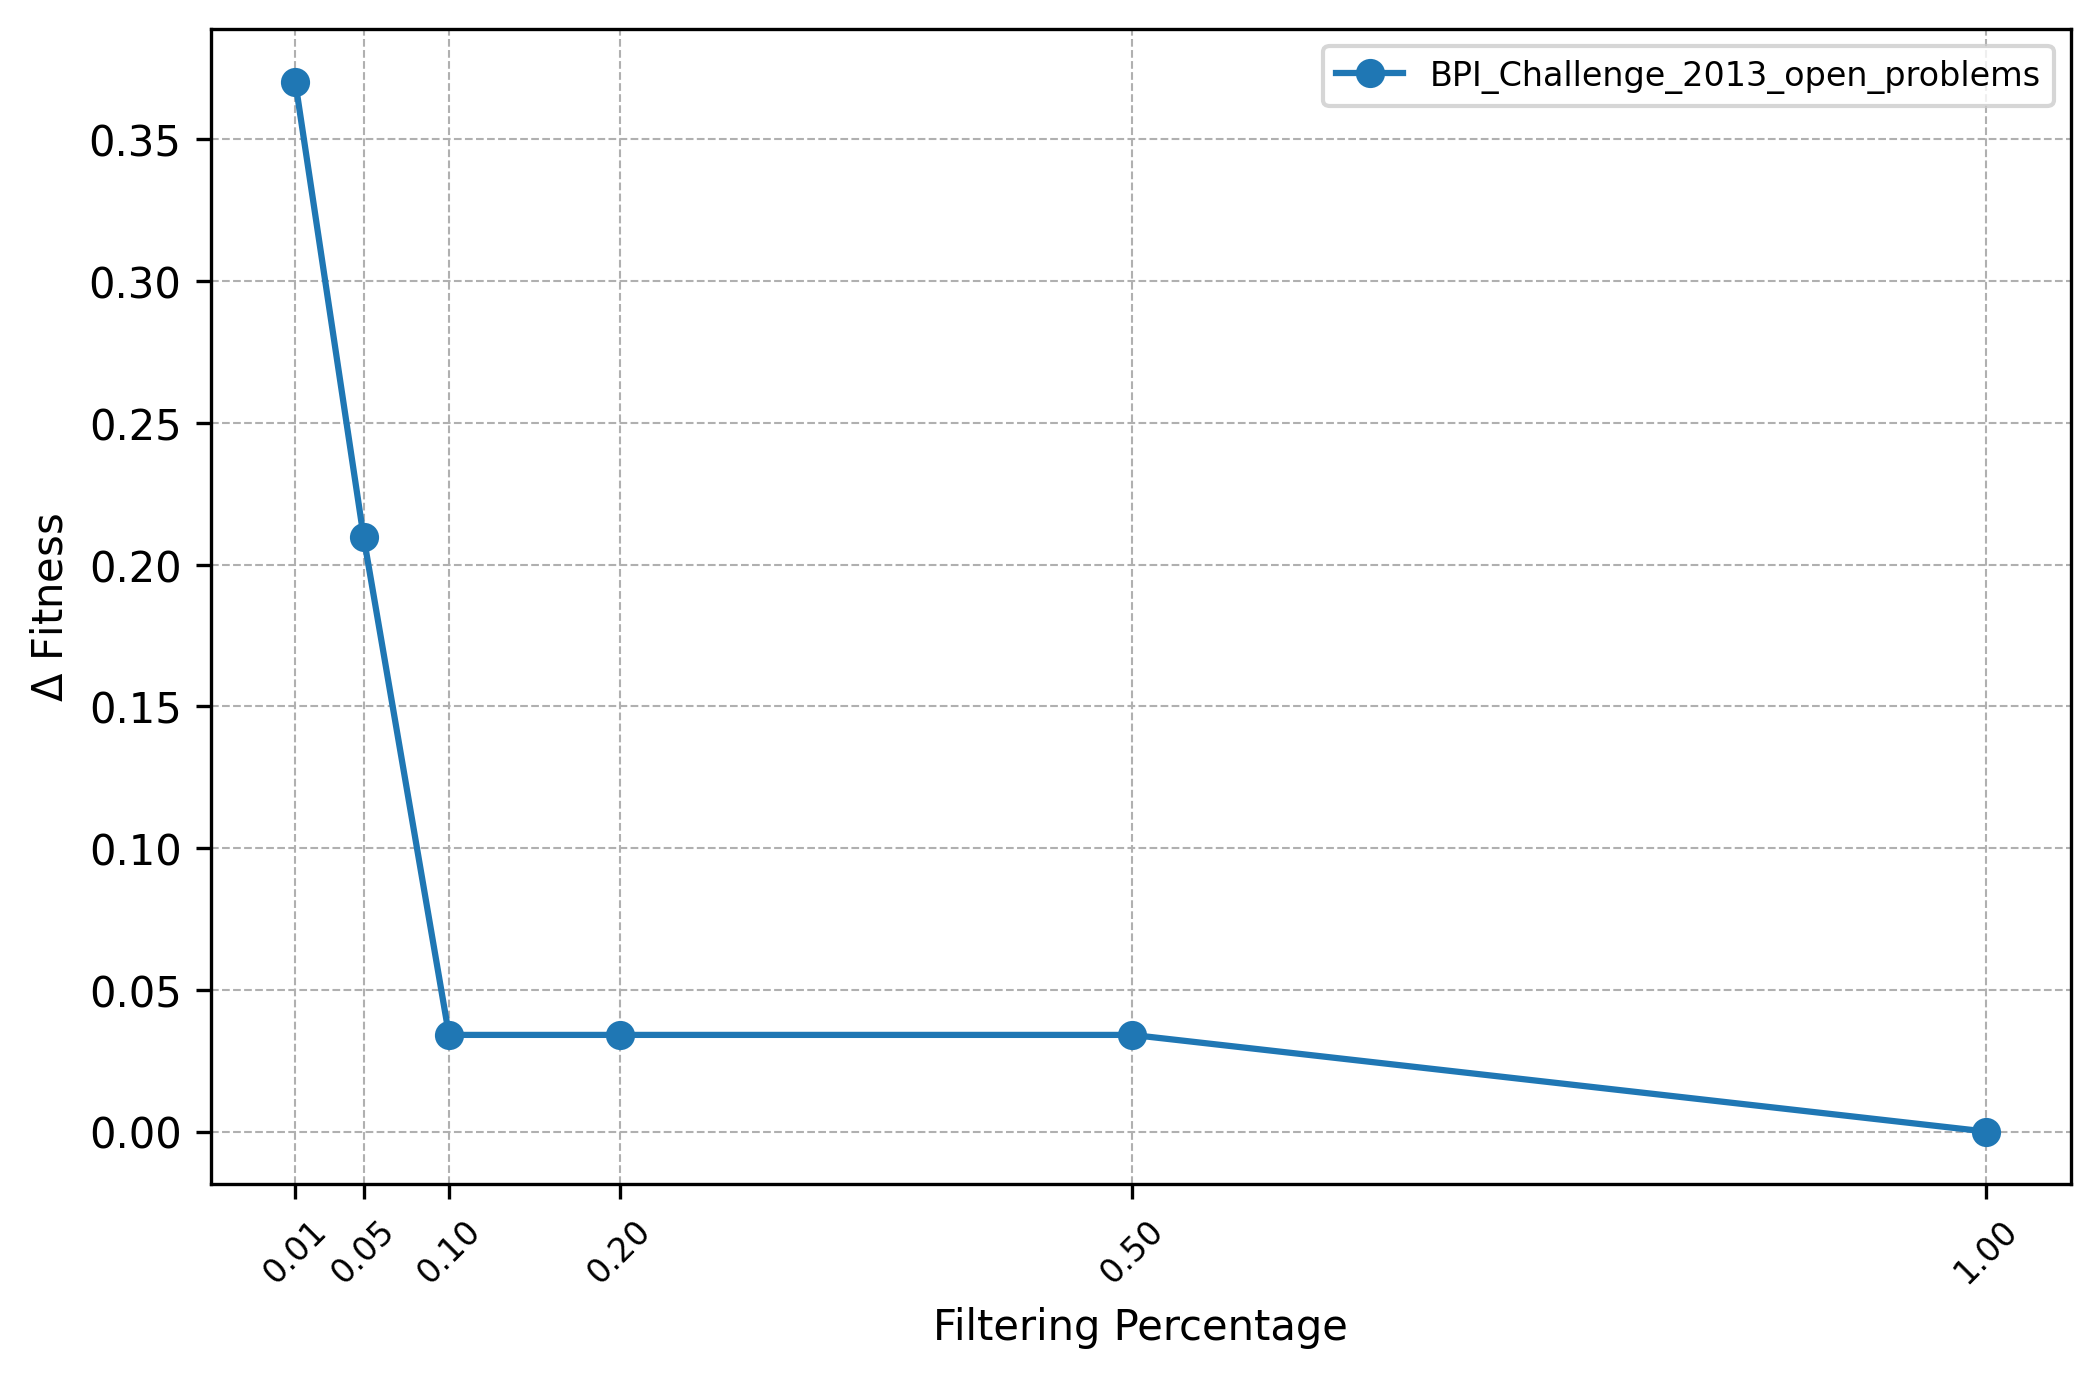
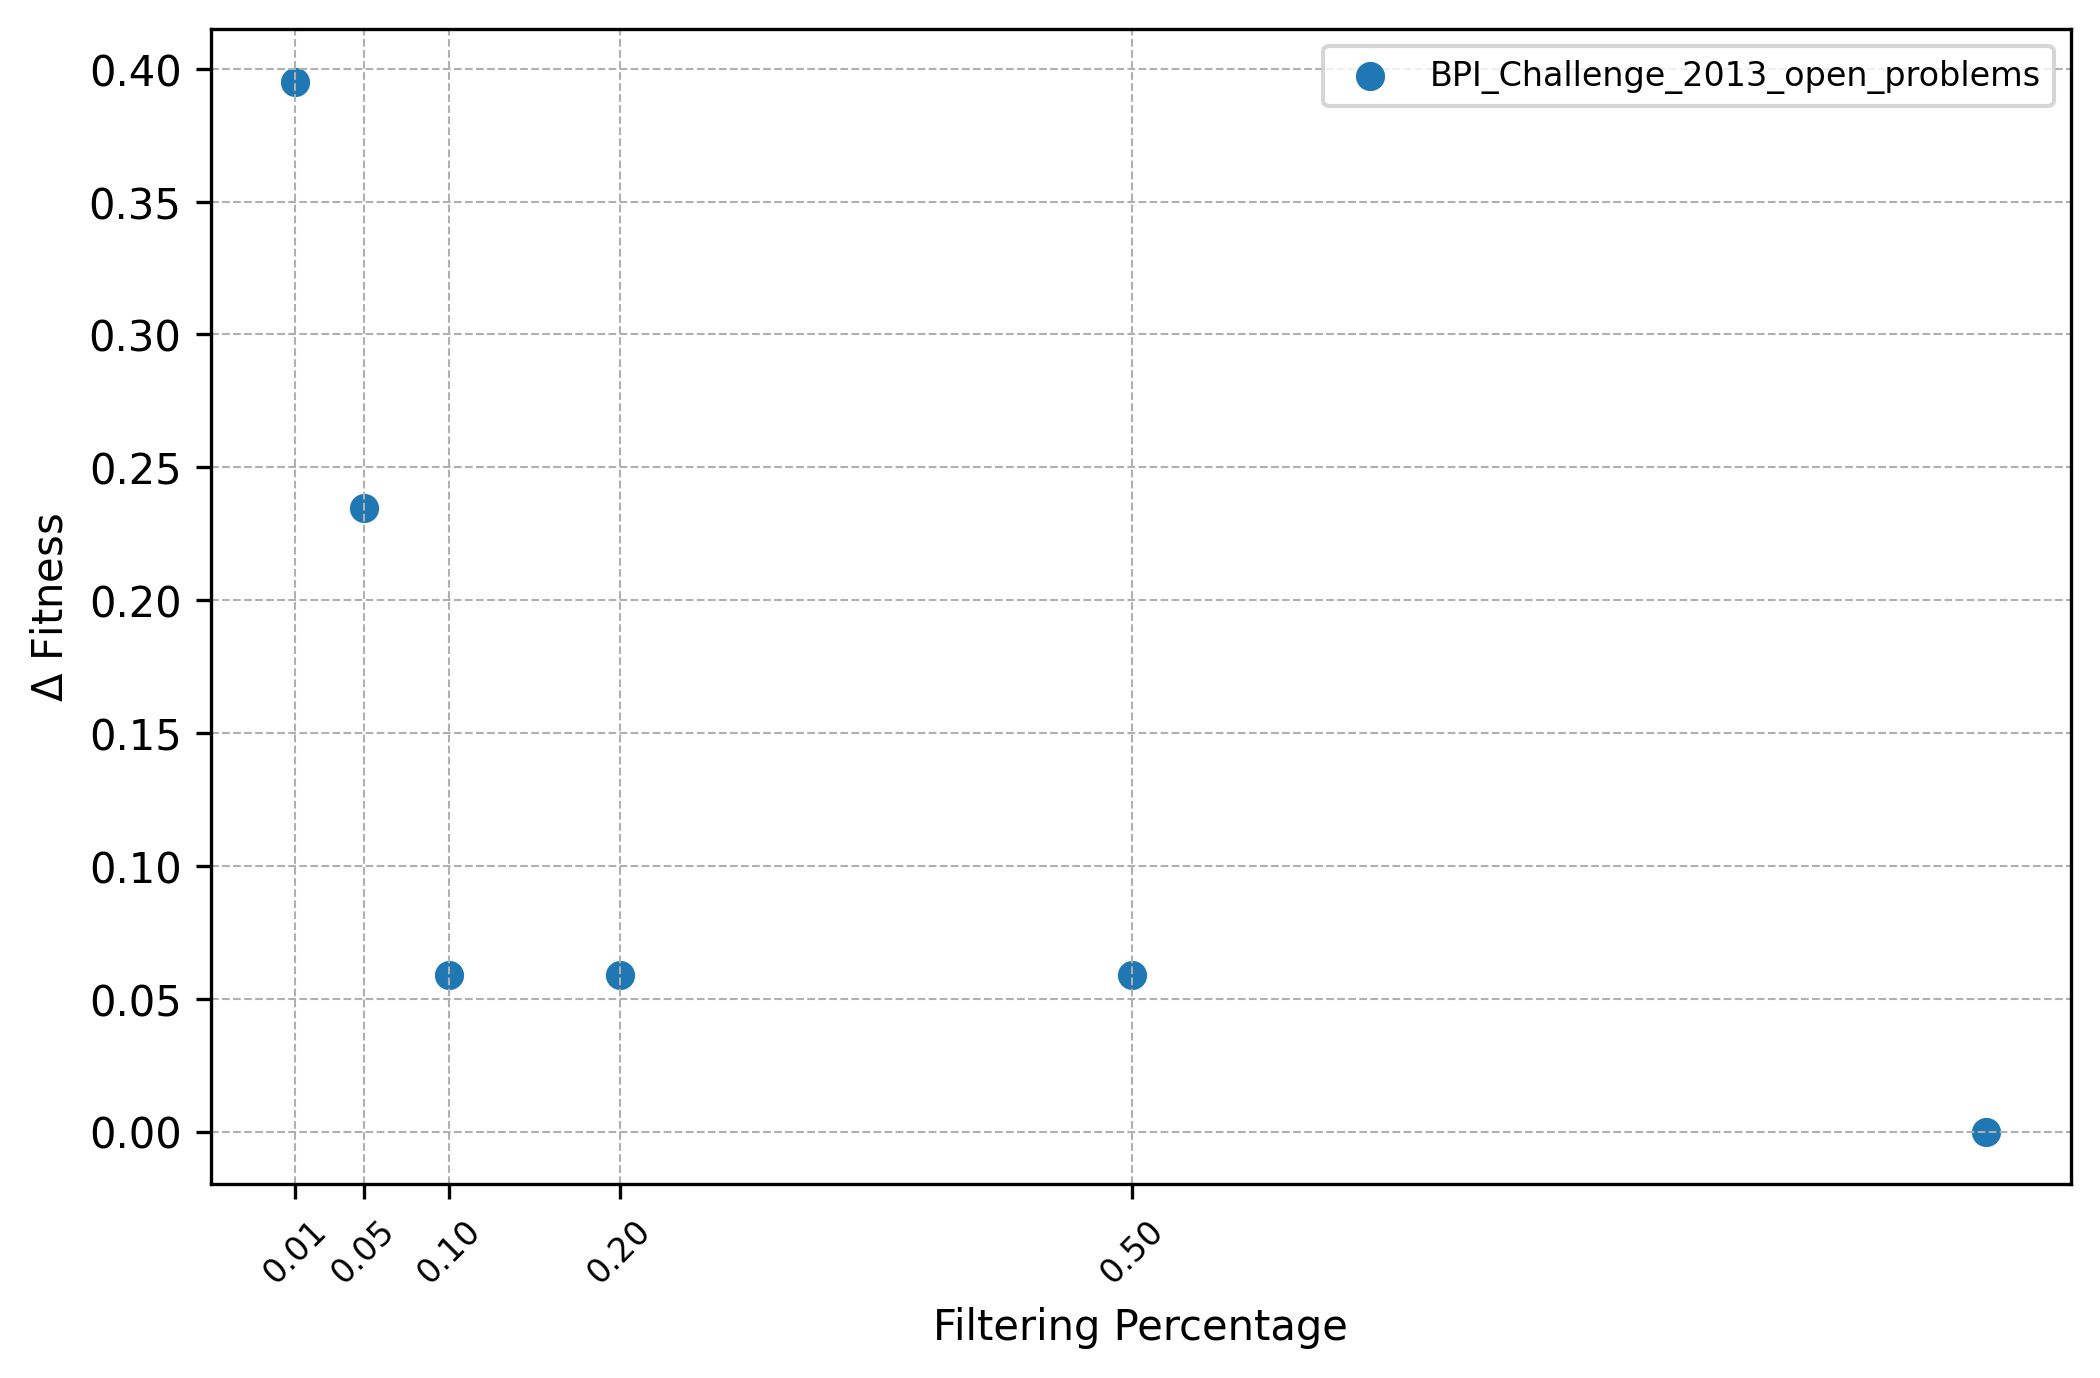
token-based replay

diff --git a/src/FastTokenBasedReplay/src/token_based_replay.cpp b/src/FastTokenBasedReplay/src/token_based_replay.cpp
@@ -41,44 +41,7 @@ void initialize_tokens(PetriNet& net) {
     }
 }
 
-void finalize_tokens(PetriNet& net, HyperGraph& silent_graph, int& missing, int& consumed, int& produced) {
-    // Check if there are tokens in the final marking
-    // If not, try to use silent transitions before adding tokens manually
-
-    Marking final_marking = net.final_marking;
-    Marking curr_marking = net.get_current_marking();
-
-    // check if the final mrking is contained in the current marking
-    if (stop_condition_final_marking(curr_marking, final_marking)) {
-        return;
-    }
-
-    // Check if the final marking is reachable from the current marking
-    auto [reachable, sequence] = silent_graph.canReachTargetMarking(curr_marking, final_marking, 5);
-    if (reachable) {
-        net.fire_transition_sequence(sequence, &consumed, &produced);
-    }
-
-    // check if the final mrking is contained in the current marking
-    if (stop_condition_final_marking(curr_marking, final_marking)) {
-        return;
-    }
-
-    // Else create tokens in the places of the final markin
-
-    for (const auto& [place, tokens] : net.final_marking.places) {
-        Place* p = net.get_place(place);
-        if (!p) continue;
-
-        int32_t tokens_in_place = p->number_of_tokens();
-        if (tokens_in_place < tokens) {
-            p->add_tokens(tokens - tokens_in_place);
-            missing += tokens - tokens_in_place;
-        }
-    }
-}
-
-void finalize_tokens_v2(PetriNet& net, std::unordered_map<std::string, std::unordered_map<std::string, std::vector<std::string>>> silent_firing_sequences, int& missing, int& consumed, int& produced) {
+void finalize_tokens(PetriNet& net, std::unordered_map<std::string, std::unordered_map<std::string, std::vector<std::string>>> silent_firing_sequences, int& missing, int& consumed, int& produced) {
     // Check if there are tokens in the final marking
     // If not, try to use silent transitions before adding tokens manually
 
@@ -166,7 +129,7 @@ replay_trace_without_caching(
     PetriNet& net, 
     std::unordered_map<std::string, std::unordered_map<std::string,std::vector<std::string>>> silent_firing_sequences,
     ActivityCache& activity_cache) {   
-        int missing = 0;   // Count of missing tokens (tokens added to input places to enable transitions)
+    int missing = 0;   // Count of missing tokens (tokens added to input places to enable transitions)
     int remaining = 0; // Count of remaining tokens in the Petri net at the end
     int consumed = 0;  // Count of tokens consumed from input places
     int produced = 0;  // Count of tokens produced in output places
@@ -216,7 +179,7 @@ replay_trace_without_caching(
     consumed += net.final_marking.number_of_tokens();
 
     // Finalize the tokens in the Petri net
-    finalize_tokens_v2(net, silent_firing_sequences, missing, consumed, produced);
+    finalize_tokens(net, silent_firing_sequences, missing, consumed, produced);
 
     // Count the remaining tokens in the Petri net
     int32_t remaining_tokens = net.number_of_tokens() - net.final_marking.number_of_tokens();
@@ -298,7 +261,7 @@ replay_trace_with_prefix(
     }
 
     consumed += net.final_marking.number_of_tokens();
-    finalize_tokens_v2(net, silent_firing_sequences, missing, consumed, produced);
+    finalize_tokens(net, silent_firing_sequences, missing, consumed, produced);
 
     remaining += net.number_of_tokens() - net.final_marking.number_of_tokens();
 
@@ -366,7 +329,7 @@ replay_trace_with_suffix(
     }
 
     consumed += net.final_marking.number_of_tokens();
-    finalize_tokens_v2(net, silent_firing_sequences, missing, consumed, produced);
+    finalize_tokens(net, silent_firing_sequences, missing, consumed, produced);
 
     int32_t remaining_tokens = net.number_of_tokens() - net.final_marking.number_of_tokens();
     remaining += remaining_tokens;
@@ -444,7 +407,7 @@ replay_trace_with_prefix_and_suffix(
     consumed += net.final_marking.number_of_tokens();
 
     // Finalize the tokens in the Petri net
-    finalize_tokens_v2(net, silent_firing_sequences, missing, consumed, produced);
+    finalize_tokens(net, silent_firing_sequences, missing, consumed, produced);
 
     // Count the remaining tokens in the Petri net
     int32_t remaining_tokens = net.number_of_tokens() - net.final_marking.number_of_tokens();
@@ -465,13 +428,10 @@ calculate_fitness(const EventLog& log, const PetriNet& net, bool prefix_caching,
     int total_produced = 0;
     int total_consumed = 0;
 
-    HyperGraph silent_hyper_graph = create_silent_hyper_graph(net);
     PrefixTree prefix_cache;
     std::unordered_map<MarkingPostfixKey, std::vector<std::string>, MarkingPostfixKeyHasher> postfixCache;
     // Map to store computed values for unique traces
     std::unordered_map<Trace, std::tuple<int, int, int, int>> trace_cache;
-
-    Graph silent_graph = create_silent_graph(net);
 
     PetriNet net_copy = net;
     // A map to store the firing sequences for every place to every other place using silent transitions

diff --git a/analyze_eventlogs.py b/analyze_eventlogs.py
@@ -6,7 +6,7 @@ from src.BatchFileLoader import BatchFileLoader
 from src.Discovery import Discovery
 from src.Evaluator import SingleEvaluator
 from src.Filtering import Filtering
-
+import csv
 
 def plot_results(results, save_path, filtering_percentages):
     """ Generates and saves a line plot for filtering percentage vs. fitness difference. """
@@ -15,6 +15,7 @@ def plot_results(results, save_path, filtering_percentages):
     plt.ylabel(r'$\Delta$ Fitness')
     plt.xticks(filtering_percentages, rotation=45, fontsize=8) 
     plt.grid(True, which='both', linestyle='--', linewidth=0.5)
+    
     for eventlog_name, data in results.items():
         plt.plot(data.keys(), data.values(), marker='o', linestyle='-', label=eventlog_name)
 
@@ -27,30 +28,41 @@ def export_results(save_path, results):
     df = pd.DataFrame.from_dict(results, orient='index')  # Event log names as row indices
     df.index.name = "Event Log"
     df.to_csv(save_path + '.csv')
+    
+def import_results(file_path):
+    """Imports results from a CSV file and returns them as a dictionary."""
+        # load csv file
+    with open(file_path) as f:
+        reader = csv.reader(f)
+        data = list(reader)
+        
+    results = dict()
+    filtering_percentages = [float(x) for x in data[0][1:]]
+    for row in data[1:]:
+        eventlog_name = row[0]
+        results[eventlog_name] = dict()
+        for i in range(1, len(row)):
+            results[eventlog_name][filtering_percentages[i-1]] = float(row[i])
+    
+    return results
 
 def main():
-    INPUT_DIR = './real_life_datasets/'
-    OUTPUT_DIR = './filtering_analysis/'
-    NUM_WORKERS = 1
-    FILTERING_PERCENTAGES = [0.01, 0.05, 0.1, 0.2, 0.5, 1]
-    
     dataset_dirs = os.listdir(INPUT_DIR)
     dataset_dirs = [x for x in dataset_dirs if not os.path.isfile(f"{INPUT_DIR}{x}")]
     eventlogs = {} # name: eventlog
     loader = BatchFileLoader(cpu_count=NUM_WORKERS)
     
     for dataset_dir in dataset_dirs:
-        if not dataset_dir == 'BPI_Challenge_2013_open_problems':
-            continue
         temp_eventlogs = loader.load_all_eventlogs(f"{INPUT_DIR}{dataset_dir}")
         # check that there is only one event log in the directory
-        assert len(temp_eventlogs) == 1, f"Expected one event log in {dataset_dir}, got {len(temp_eventlogs)}"
+        # assert len(temp_eventlogs) == 1, f"Expected one event log in {dataset_dir}, got {len(temp_eventlogs)}"
+        if dataset_dir not in ['BPI_Challenge_2013_open_problems']:
+            continue
+        
         for eventlog in temp_eventlogs.values():
             eventlogs[dataset_dir] = eventlog
     
-    results_top_n_filtering = {}
-    results_random_filtering = {}
-    
+    results_top_n_filtering = dict()
     for eventlog_name, cur_el in eventlogs.items():
         print("Processing event log:", eventlog_name)
         # Discover and evaluate process model using full log
@@ -62,7 +74,7 @@ def main():
             mutation_rate=0.3,
             elite_rate=0.3,
             min_fitness=None,
-            max_generations=200,
+            max_generations=100,
             stagnation_limit=None,
             time_limit=None,
             population_size=100
@@ -70,9 +82,7 @@ def main():
         evaluator = SingleEvaluator(pn, cur_el)
         full_log_fitness = evaluator.get_replay_fitness()['log_fitness']
         
-        results_top_n_filtering[eventlog_name] = {}
-        results_random_filtering[eventlog_name] = {}
-        
+        results_top_n_filtering[eventlog_name] = dict()
         for p in FILTERING_PERCENTAGES:
             # Top N filtering
             filtered_eventlog = Filtering.filter_eventlog_by_top_percentage_unique(cur_el, p, include_all_activities=False)
@@ -84,7 +94,7 @@ def main():
                 mutation_rate=0.3,
                 elite_rate=0.3,
                 min_fitness=None,
-                max_generations=200,
+                max_generations=100,
                 stagnation_limit=None,
                 time_limit=None,
                 population_size=100
@@ -92,6 +102,7 @@ def main():
             evaluator = SingleEvaluator(pn, cur_el)
             fitness = evaluator.get_replay_fitness()['log_fitness']
             results_top_n_filtering[eventlog_name][p] = round(full_log_fitness - fitness, 4)
+        results_top_n_filtering[eventlog_name][1] = 0
 
     # Export and visualize results
     export_results(os.path.join(OUTPUT_DIR, 'top_traces_filtering'), results_top_n_filtering)
@@ -99,4 +110,10 @@ def main():
 
 
 if __name__ == "__main__":
+    INPUT_DIR = './real_life_datasets/'
+    OUTPUT_DIR = './filtering_analysis/'
+    NUM_WORKERS = 1
+    FILTERING_PERCENTAGES = [0.01, 0.05, 0.1, 0.2, 0.5]
     main()
+    # results = import_results('./filtering_analysis/top_traces_filtering.csv')
+    # plot_results(results, os.path.join(OUTPUT_DIR, 'test'), FILTERING_PERCENTAGES)

diff --git a/benchmark.py b/benchmark.py
@@ -11,7 +11,7 @@ from pm4py.algo.conformance.alignments.petri_net.algorithm import apply as align
 from pm4py.algo.discovery.inductive.algorithm import apply as pm4py_inductive_miner
 from pm4py.objects.conversion.process_tree import converter as pt_converter
 from src.SupressPrints import SuppressPrints
-from pyinstrument import Profiler
+# from pyinstrument import Profiler
 import numpy as np
 from pm4py.sim import play_out, generate_process_tree
 from src.Filtering import Filtering
@@ -223,32 +223,32 @@ def test_pm4py_alignment(num_traces=[]):
     return samples
 
 def real_life_evaluation():
-    eventlog_dir = "./real_life_datasets"
+    eventlog_dir = "./real_life_datasets/"
     data = {}
     num_data_points = 1
-
-    for filename in os.listdir(eventlog_dir):
-        if filename.endswith(".xes"):
-            print(f"Processing {filename}")
-            our_event_log = EventLog.load_xes(os.path.join(eventlog_dir, filename))
+    for folder in os.listdir(eventlog_dir):
+        if not os.path.isdir(eventlog_dir + folder):
+            continue
+        for filename in os.listdir(eventlog_dir + folder):
+            if filename.endswith(".xes"):
+                print(f"Processing {filename}")
+                our_event_log = EventLog.load_xes(os.path.join(eventlog_dir, folder, filename))
+                
+                # filter the traces
+                our_event_log = Filtering.filter_eventlog_by_top_percentage_unique(our_event_log, 1, include_all_activities=False)
+                
+                pm4py_event_log = our_event_log.to_pm4py()
+                pm4py_pt = pm4py_inductive_miner(pm4py_event_log)
+                pm4py_net, init, end = pt_converter.apply(pm4py_pt, variant=pt_converter.Variants.TO_PETRI_NET)
+                
+                our_net = PetriNet.from_pm4py(pm4py_net, init, end)
             
-            # filter the traces
-            our_event_log = Filtering.filter_eventlog_by_top_percentage_unique(our_event_log, 1)
-            
-            pm4py_event_log = our_event_log.to_pm4py()
-            pm4py_pt = pm4py_inductive_miner(pm4py_event_log)
-            pm4py_net, init, end = pt_converter.apply(pm4py_pt, variant=pt_converter.Variants.TO_PETRI_NET)
-            
-            our_net = PetriNet.from_pm4py(pm4py_net)
-            our_net.set_final_marking(Marking({"End": 1}))
-            our_net.set_initial_marking(Marking({"Start": 1}))
-        
-            data[filename] = {"FastTokenBasedReplay (without caching)": time_fast_token_based_replay_without_caching(our_event_log, our_net),
-                              #"pm4py": time_pm4py_token_based_replay(our_event_log, our_net),
-                              "FastTokenBasedReplay (with prefix caching)": time_fast_token_based_replay_with_prefix_caching(our_event_log, our_net),
-                              "FastTokenBasedReplay (with suffix caching)": time_fast_token_based_replay_with_suffix_caching(our_event_log, our_net),
-                              "FastTokenBasedReplay (with prefix and suffix caching)" : time_fast_token_based_replay_with_prefix_and_suffix_caching(our_event_log, our_net)
-                              }
+                data[filename] = {"FastTokenBasedReplay (without caching)": time_fast_token_based_replay_without_caching(our_event_log, our_net),
+                                "pm4py": time_pm4py_token_based_replay(our_event_log, our_net),
+                                "FastTokenBasedReplay (with prefix caching)": time_fast_token_based_replay_with_prefix_caching(our_event_log, our_net),
+                                "FastTokenBasedReplay (with suffix caching)": time_fast_token_based_replay_with_suffix_caching(our_event_log, our_net),
+                                "FastTokenBasedReplay (with prefix and suffix caching)" : time_fast_token_based_replay_with_prefix_and_suffix_caching(our_event_log, our_net)
+                                }
             
     
     
@@ -283,7 +283,8 @@ def real_life_evaluation():
 
     # Show plot
     plt.tight_layout()
-    plt.show()  
+    plt.show()
+    # fig.savefig('ftr_real_life_comparison.png')  
     
 def synthetic_evaluation():
     num_traces = [1_000, 5_000, 50_000, 100_000]

diff --git a/run.py b/run.py
@@ -5,11 +5,22 @@ import time
 from src.Evaluator import SingleEvaluator
 from src.PetriNet import PetriNet
 from src.Filtering import Filtering
-
+import csv
+import pandas as pd
 
 if __name__ == "__main__":
-    eventlog = EventLog().from_trace_list(["ABC", "ABD", "ABD", "ABC"])
-    filtered_log = Filtering.filter_eventlog_by_top_percentage_unique(eventlog, 0.5, include_all_activities=True)
+    # load csv file
+    with open('./filtering_analysis/top_traces_filtering.csv') as f:
+        reader = csv.reader(f)
+        data = list(reader)
+        
+    results = dict()
+    filtering_percentages = [float(x) for x in data[0][1:]]
+    for row in data[1:]:
+        eventlog_name = row[0]
+        results[eventlog_name] = dict()
+        for i in range(1, len(row)):
+            results[eventlog_name][filtering_percentages[i-1]] = float(row[i])
+            
+            
     
-    random_log = Filtering.filter_eventlog_random(eventlog, 0.5, include_all_activities=True)
-    print(random_log)
